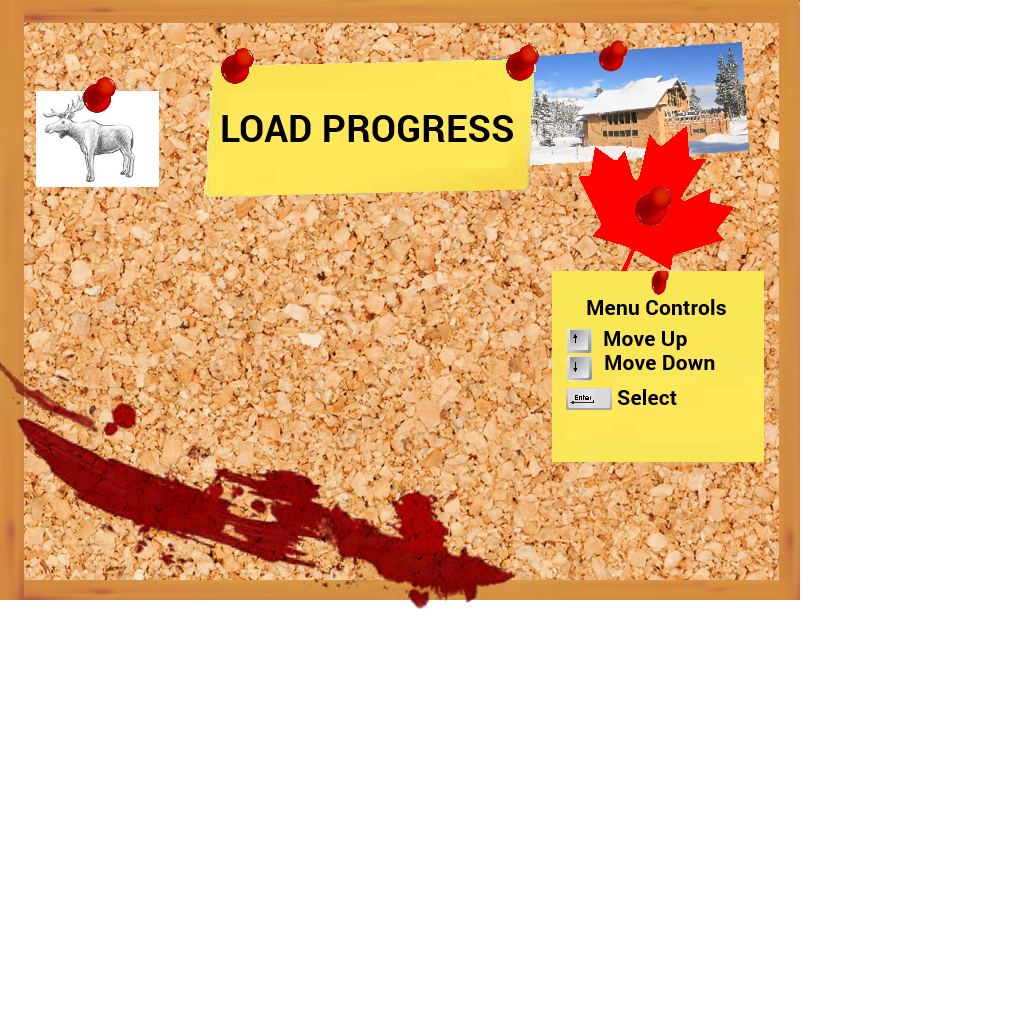
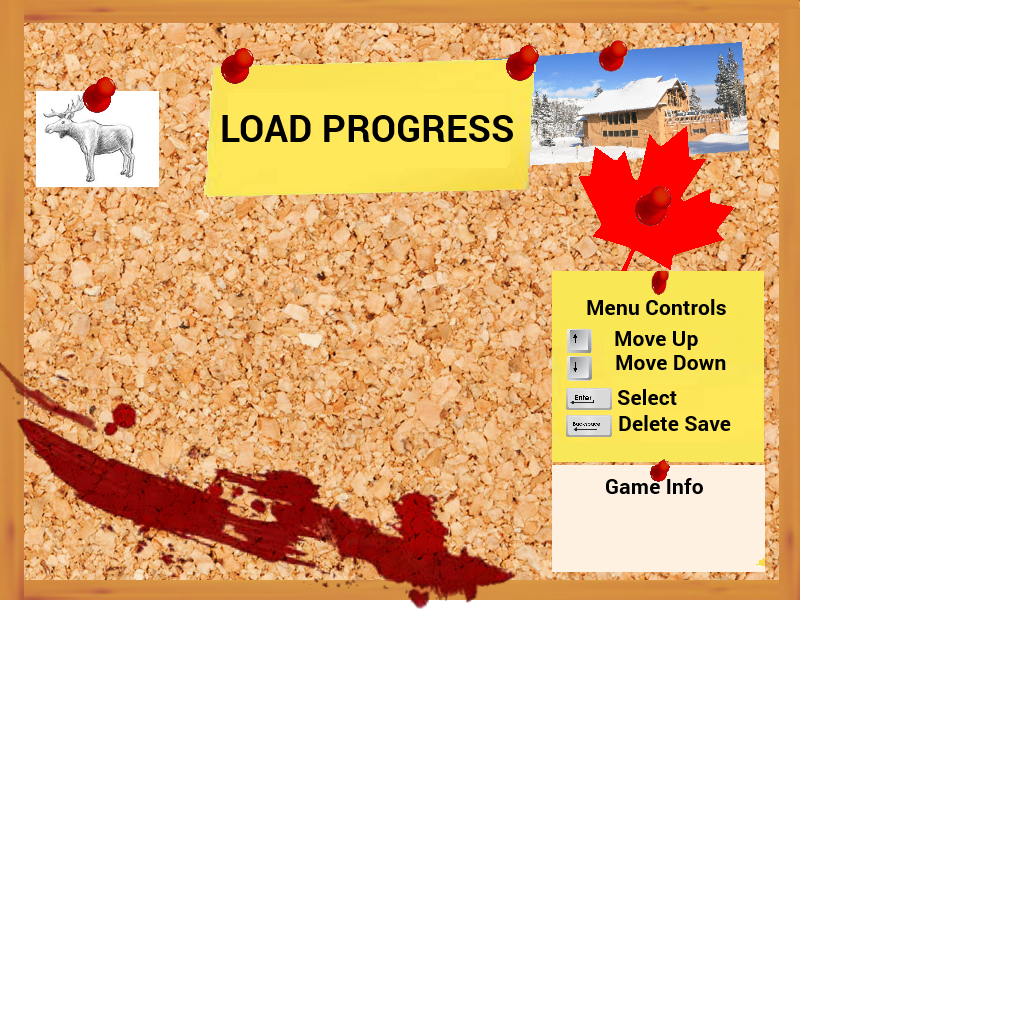
Added ability to delete savegames, and show game info on a modified picture of the LoadSave state. Added ability to load and save money.

Changed region(s): [[0.5312, 0.4062, 0.75, 0.5625], [0.5938, 0.3125, 0.7188, 0.375]]

diff --git a/source/LoadSaveState.cpp b/source/LoadSaveState.cpp
@@ -2,8 +2,8 @@
 |	File:		LoadSaveState.cpp
 |	Author:		Justin Mazzola
 |	Course:		SGP
-|	Purpose:	The state where the player will save and load
-|				gamesaves
+|	Purpose:	The state where the player will save and load and
+|				delete gamesaves
 ***************************************************************/
 #include "LoadSaveState.h"
 
@@ -30,10 +30,11 @@
 #include "Entity.h"
 #include "EntityManager.h"
 
+#include "../TinyXML/tinyxml.h"
+
 #include <cstdlib>
 #include <cassert>
 #include <sstream>
-#include <sys/stat.h>
 #include <fstream>
 
 #include <shlobj.h>
@@ -248,6 +249,17 @@ using namespace std;
 		}
 	}
 
+	// If we press Backspace
+	if (pInput->IsKeyPressed(SGD::Key::Backspace) || pInput->IsButtonPressed(0,(unsigned int)SGD::Button::X))
+	{
+		// Delete the file
+		remove(m_szSaveFiles[m_nCursor].c_str());
+
+		// Check if we have the files again to refresh
+		for (int i = 0; i < NUM_SLOTS; i++)
+			CheckSlotExists(i);
+	}
+
 	return true;	// keep playing
 }
 
@@ -341,6 +353,9 @@ using namespace std;
 		m_pMainButton->Draw("Go Back", { 170, 470 }, { 255, 0, 0 }, { 0.9f, 0.9f }, 0);
 	else
 		m_pMainButton->Draw("Go Back", { 170, 470 }, { 0, 0, 0 }, { 0.9f, 0.9f }, 0);
+
+	// Render game info (basic info for now for selected option)
+	m_pFont->Draw(LoadFileInfo(m_nCursor), 560, 498, 0.4f, { 0, 0, 0 });
 }
 
 /**************************************************************/
@@ -373,4 +388,38 @@ bool LoadSaveState::CheckSlotExists(int slot)
 
 	// true = exists, false = doesn't exist
 	return m_bFileExists[slot];
+}
+
+// LoadFileInfo
+// - return a string containing info about the savegame
+// [in] slot - the number slot you're loading
+// [out] string - text to display
+string LoadSaveState::LoadFileInfo(int slot)
+{
+	// TODO, redo the load/save screen to have space for the game info, such as:
+	// Date and Time the gamesave was last modified, wave number, upgrades, and money.
+
+	TiXmlDocument doc;
+	// Attempt to load the file, if not gtfo
+	if (!doc.LoadFile(m_szSaveFiles[slot].c_str()))
+		return "Can't load XML file";
+
+	// Access the root element (volume)
+	TiXmlElement* pRoot = doc.RootElement();
+
+	// Is the root there, if not, gtfo
+	if (pRoot == nullptr)
+		return "Root cannot be null!";
+
+	float x = float(atoi(pRoot->Attribute("x")));
+	float y = float(atoi(pRoot->Attribute("y")));
+
+	// Get the stats
+	TiXmlElement* pStats = pRoot->NextSiblingElement("stats");
+
+	// Grab the money
+	int money = int(atoi(pStats->Attribute("money")));
+
+	string returnString = "Money: ";
+	return returnString + std::to_string(money);
 }

diff --git a/source/GameplayState.cpp b/source/GameplayState.cpp
@@ -199,6 +199,21 @@ Entity*	GameplayState::CreatePlayer() const
 	// Create our player
 	m_pPlayer = CreatePlayer();
 
+	// If the slot is set
+
+	// TODO: Make it so I DON'T have to do this twice, since I can't set money because
+	// the player isn't created yet.
+	if (m_nCurrGameSlot > 0)
+	{
+		// If we can't load the savegame
+		if (!LoadSaveState::GetInstance()->CheckSlotExists(m_nCurrGameSlot - 1))
+			// Make a new savegame
+			SaveGame(true);
+		else
+			// load the savegame
+			LoadGameFromSlot(m_nCurrGameSlot);
+	}
+
 	// Add it to the entity manager
 	m_pEntities->AddEntity(m_pPlayer, BUCKET_PLAYER);
 
@@ -1186,6 +1201,16 @@ void GameplayState::LoadGameFromSlot(int slot)
 	m_ptPlayerSpawnPoint.x = float(atoi(pRoot->Attribute("x")));
 	m_ptPlayerSpawnPoint.y = float(atoi(pRoot->Attribute("y")));
 
+	// Get the volume
+	TiXmlElement* pStats = pRoot->NextSiblingElement("stats");
+
+	// Set the player's score
+	if (dynamic_cast<Player*>(m_pPlayer) != nullptr)
+	{
+		int money = int(atoi(pStats->Attribute("money")));
+		dynamic_cast<Player*>(m_pPlayer)->SetScore(money);
+	}
+
 
 }
 
@@ -1247,6 +1272,15 @@ void GameplayState::SaveGame(bool newFile)
 		// Link the root to the doc
 		doc.LinkEndChild(pRoot);
 
+		// Add a new element called 'stats'
+		TiXmlElement* pStats = new TiXmlElement("stats");
+
+		// Add the money
+		pStats->SetAttribute("money", 0);
+
+		// Link the stats to the doc
+		doc.LinkEndChild(pStats);
+
 		// Save the file
 		doc.SaveFile(pathtowrite.c_str());
 	}
@@ -1270,6 +1304,15 @@ void GameplayState::SaveGame(bool newFile)
 
 		// Link the root to the doc
 		doc.LinkEndChild(pRoot);
+
+		// Add a new element called 'stats'
+		TiXmlElement* pStats = new TiXmlElement("stats");
+
+		// Add the money
+		pStats->SetAttribute("money", (int)dynamic_cast<Player*>(m_pPlayer)->GetScore());
+
+		// Link the stats to the doc
+		doc.LinkEndChild(pStats);
 
 		// Save the file
 		doc.SaveFile(pathtowrite.c_str());

diff --git a/source/LoadSaveState.h b/source/LoadSaveState.h
@@ -106,6 +106,7 @@ private:
 	string m_szSaveFiles[NUM_SLOTS];
 	int m_pnSlots[NUM_SLOTS];
 	bool m_bFileExists[NUM_SLOTS];
+	string LoadFileInfo(int slot);
 
 	// Message Callback Function:
 	//static void MessageProc(const SGD::Message* pMsg);
